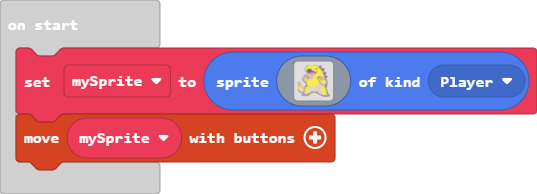
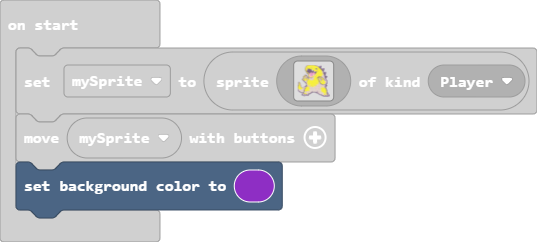
Update main.blocks, main.ts

diff --git a/main.ts b/main.ts
@@ -77,3 +77,4 @@ let mySprite = sprites.create(img`
     ...............................................................ccccc..ccc....
     `, SpriteKind.Player)
 controller.moveSprite(mySprite)
+scene.setBackgroundColor(10)
